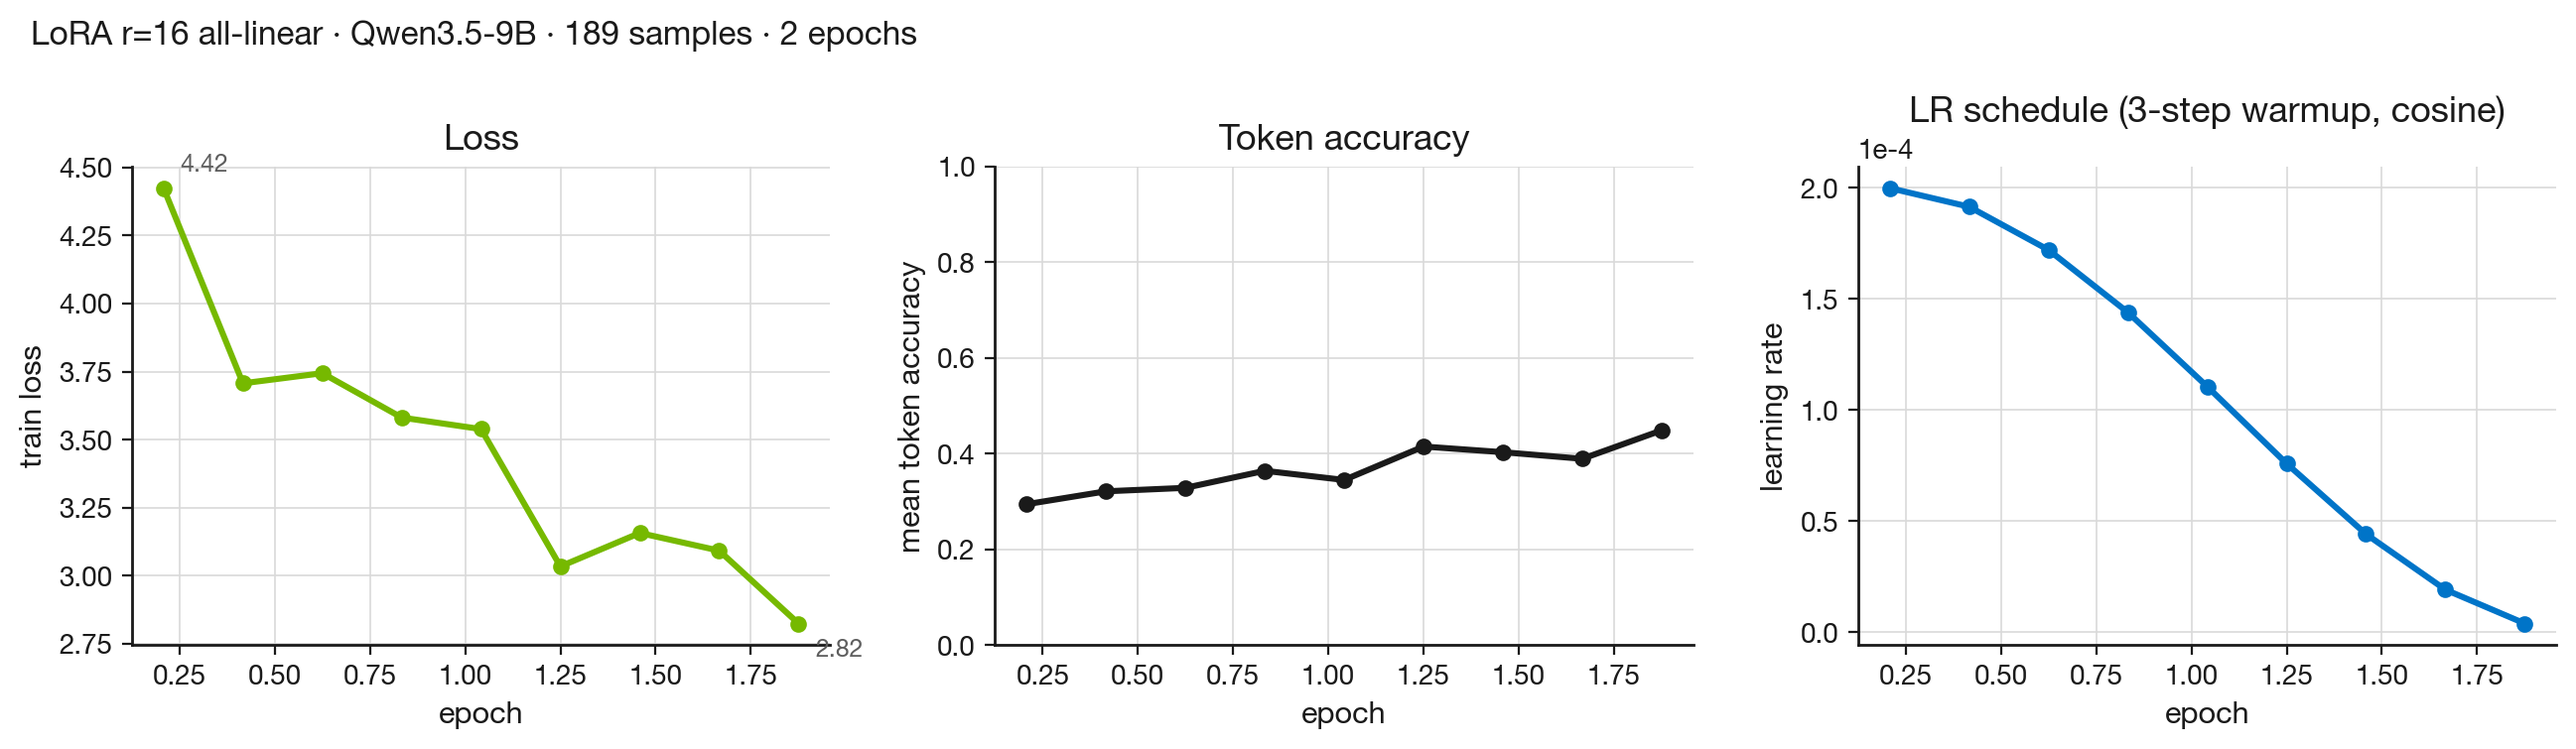
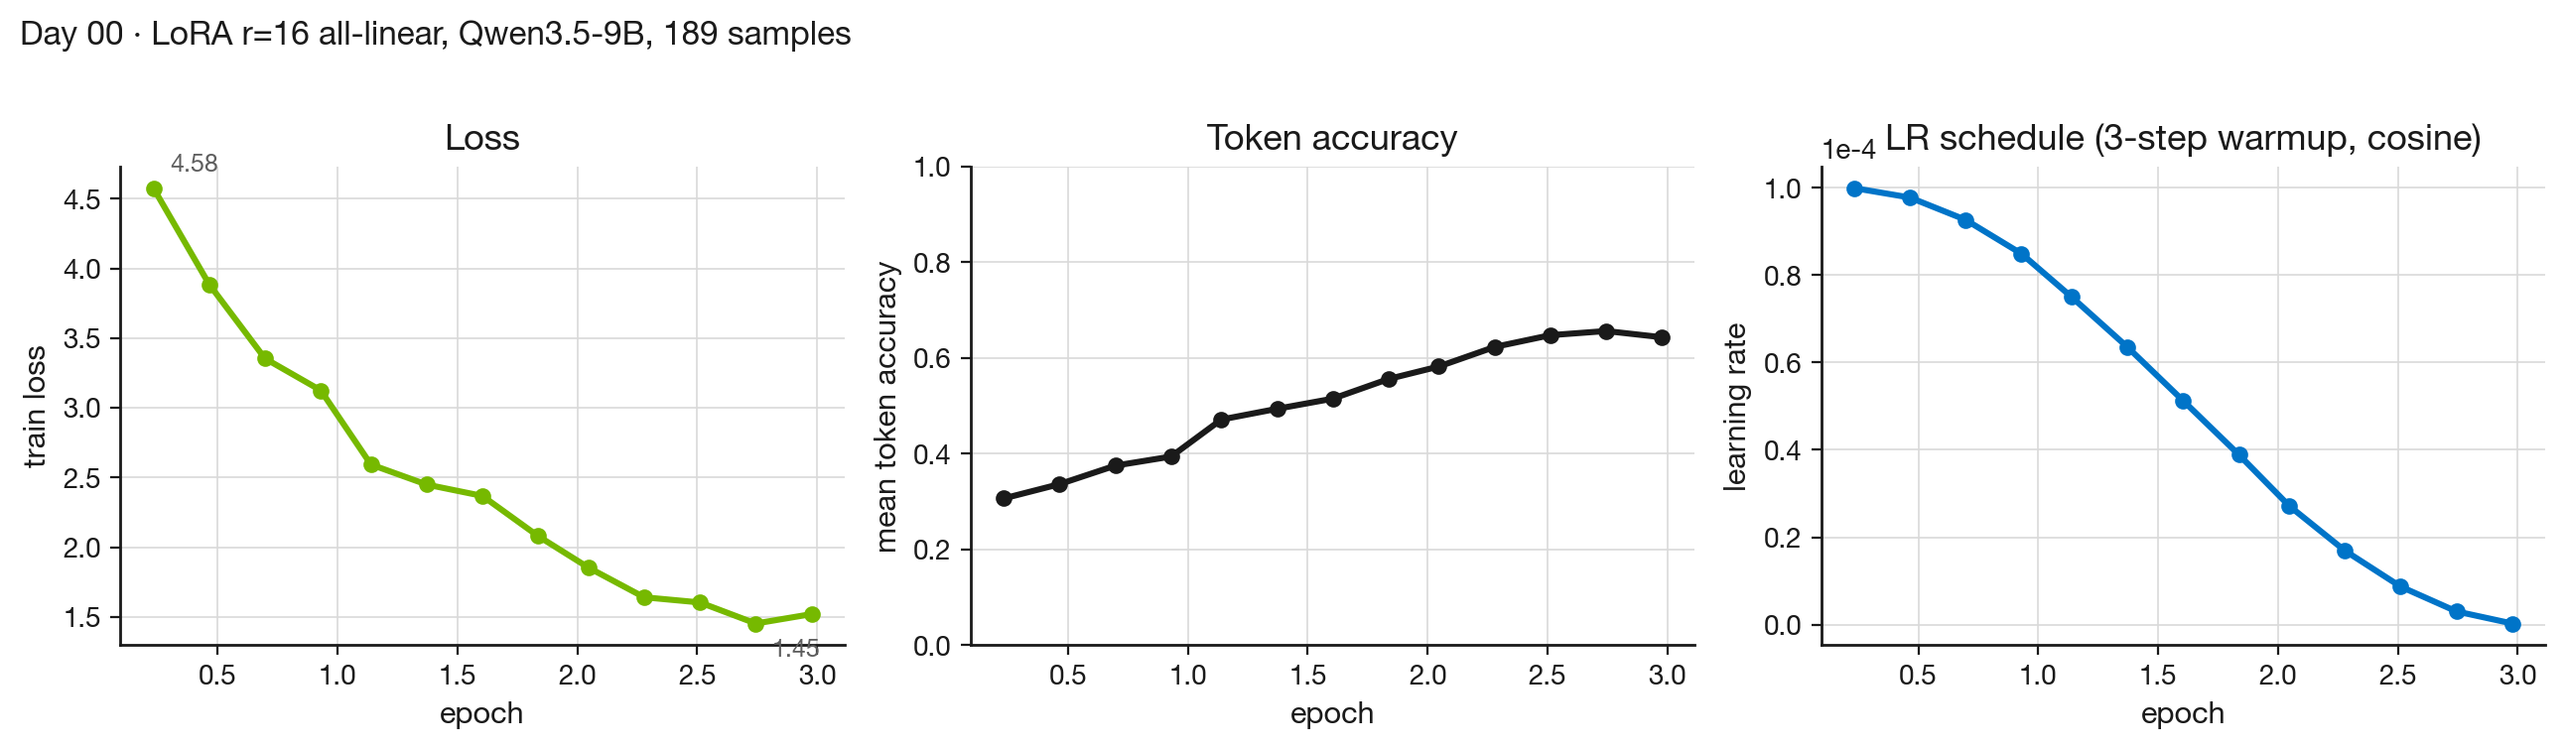
day00 §4 换成 demo 数据上的实测数字，删掉没跑过的 lr 结论
原来 §4 的耗时、内存、loss 和训练曲线来自个人语料的两次训练，却写成
是仓库自带 demo 数据跑出来的；lr 三档表根本没有实验支撑。

用 data/persona_demo.jsonl（169 条）在 Thor 上重跑 5e-5 / 1e-4 / 2e-4
三档，各 3 epoch，§4 全部换成这次的数：4.0 min、23.6 GB、tj 38→51 °C、
loss 4.58→1.52。三档都学到了风格，"lr 越大越过拟合"在这份数据上没显出来，
表格改成三档实测 + 说明这条结论依赖数据量和多样性，不能当普适规律。

- probes.txt 从 5 题扩到 12 题：5 题分辨不出 4/5 和 5/5 是不是噪声
- 修 probes 的关键词漏判（答"中华人民共和国"而关键词是"中国"），
  §3.4b 补一句提醒读者关键词匹配只是近似，✗ 的要自己看原文
- train_lora.py 默认值对齐教程正文：epochs 2→3，lr 2e-4→1e-4
- 条数 137→169，并说明它随仓库文档增删变化
- cn_punct.py 会把 {.fig fig-alt="..."} 里的引号弯化，属性块加进遮蔽名单

diff --git a/scripts/cn_punct.py b/scripts/cn_punct.py
@@ -21,7 +21,8 @@ def mask(text):
 
     # 顺序要紧。YAML frontmatter 和 admonition 标题是**语法**，
     # 里面的引号一旦变成弯引号，解析就坏了 —— 必须先遮蔽。
-    for pat in (r'\A---\n.*?\n---\n', r'^\s*(?:!!!|\?\?\?)[^\n]*$',
+    # `{.fig fig-alt="..."}` 这类 Quarto 属性块同理：引号是语法，弯了就解析不出属性。
+    for pat in (r'\A---\n.*?\n---\n', r'^\s*(?:!!!|\?\?\?)[^\n]*$', r'\{[.#][^}\n]*\}',
                 r'```.*?```', r'^\$\$$.*?^\$\$$', r'`[^`\n]*`', r'\$[^$\n]+\$',
                 r'!?\[[^\]]*\]\([^)]*\)', r'<https?://[^>]+>', r'https?://\S+', r'<[^>\n]+>'):
         text = re.sub(pat, keep, text, flags=re.S | re.M)

diff --git a/days/day00_lora-quickstart/code/train_lora.py b/days/day00_lora-quickstart/code/train_lora.py
@@ -40,11 +40,11 @@ def main():
     ap.add_argument("--model", required=True)
     ap.add_argument("--data", required=True)
     ap.add_argument("--out", required=True)
-    ap.add_argument("--epochs", type=float, default=2)
+    ap.add_argument("--epochs", type=float, default=3)
     ap.add_argument("--rank", type=int, default=16)
     ap.add_argument("--alpha", type=int, default=32)
     ap.add_argument("--batch", type=int, default=4)
-    ap.add_argument("--lr", type=float, default=2e-4)
+    ap.add_argument("--lr", type=float, default=1e-4)
     ap.add_argument("--max-seq", type=int, default=1024)
     a = ap.parse_args()
 
